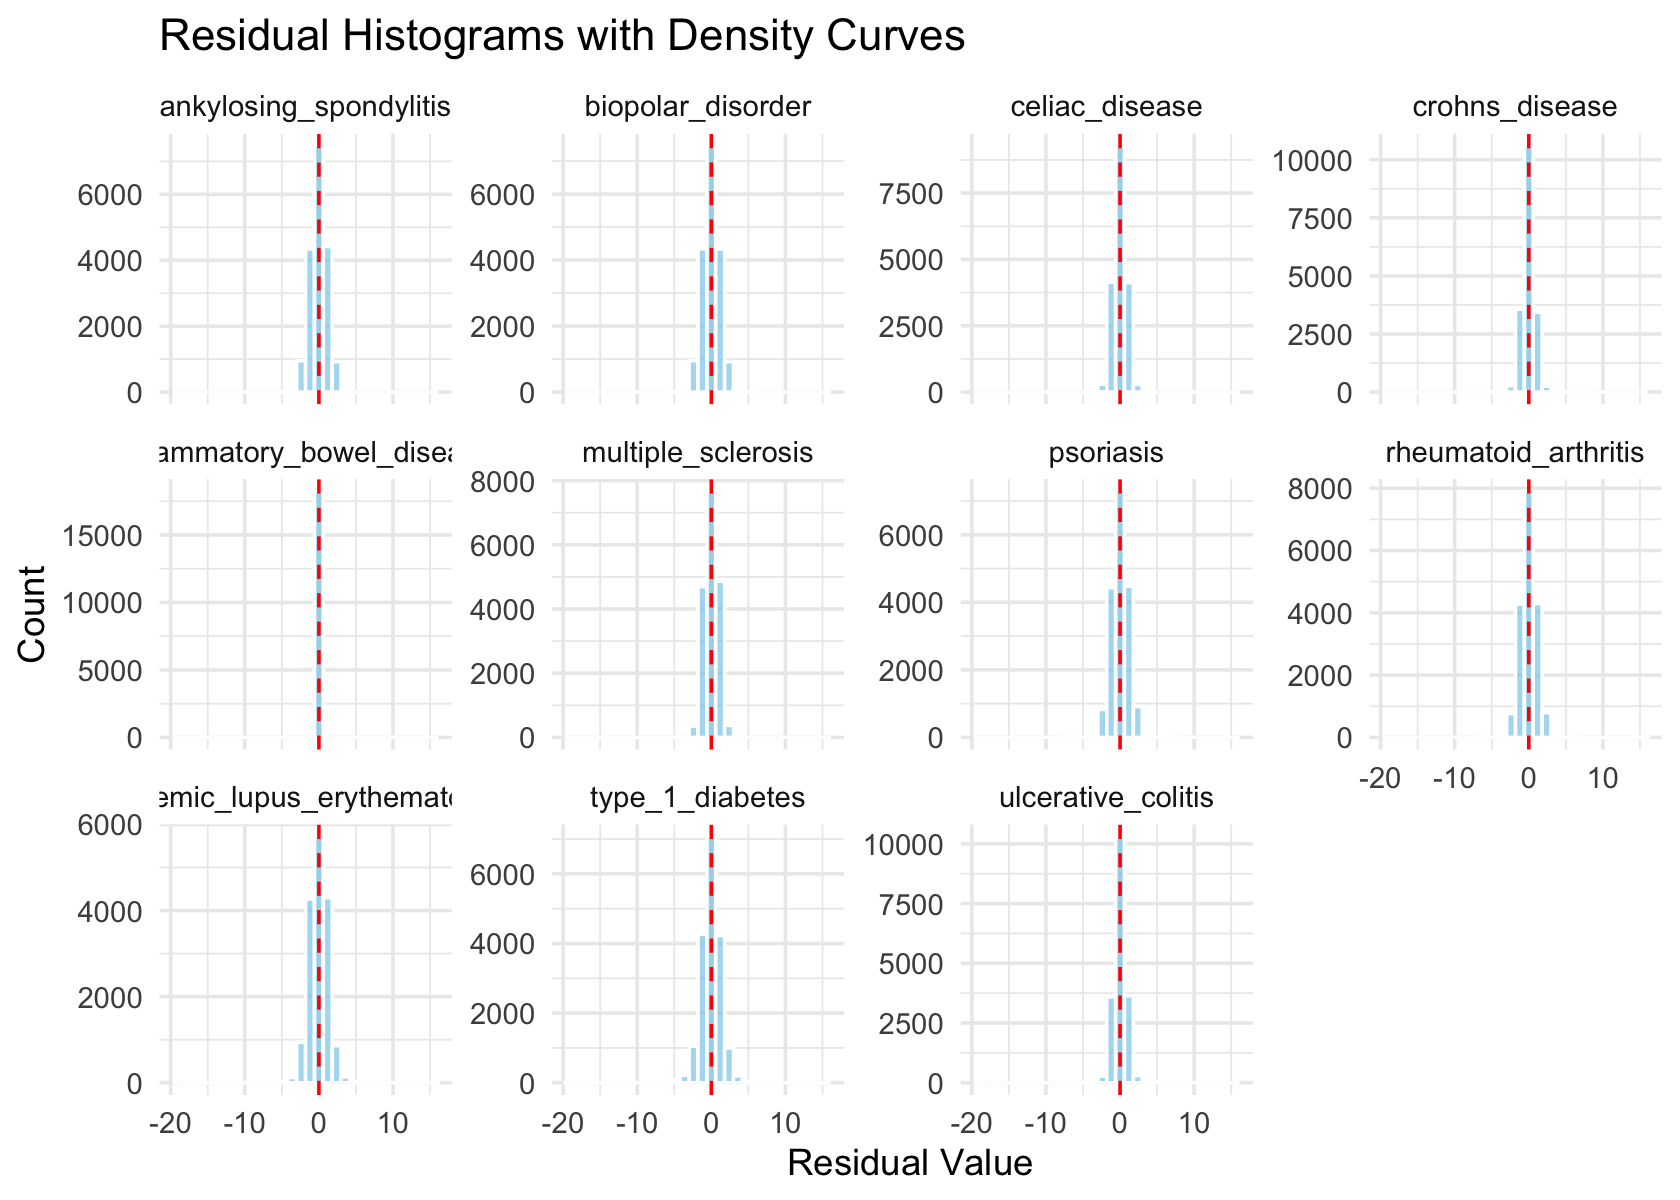
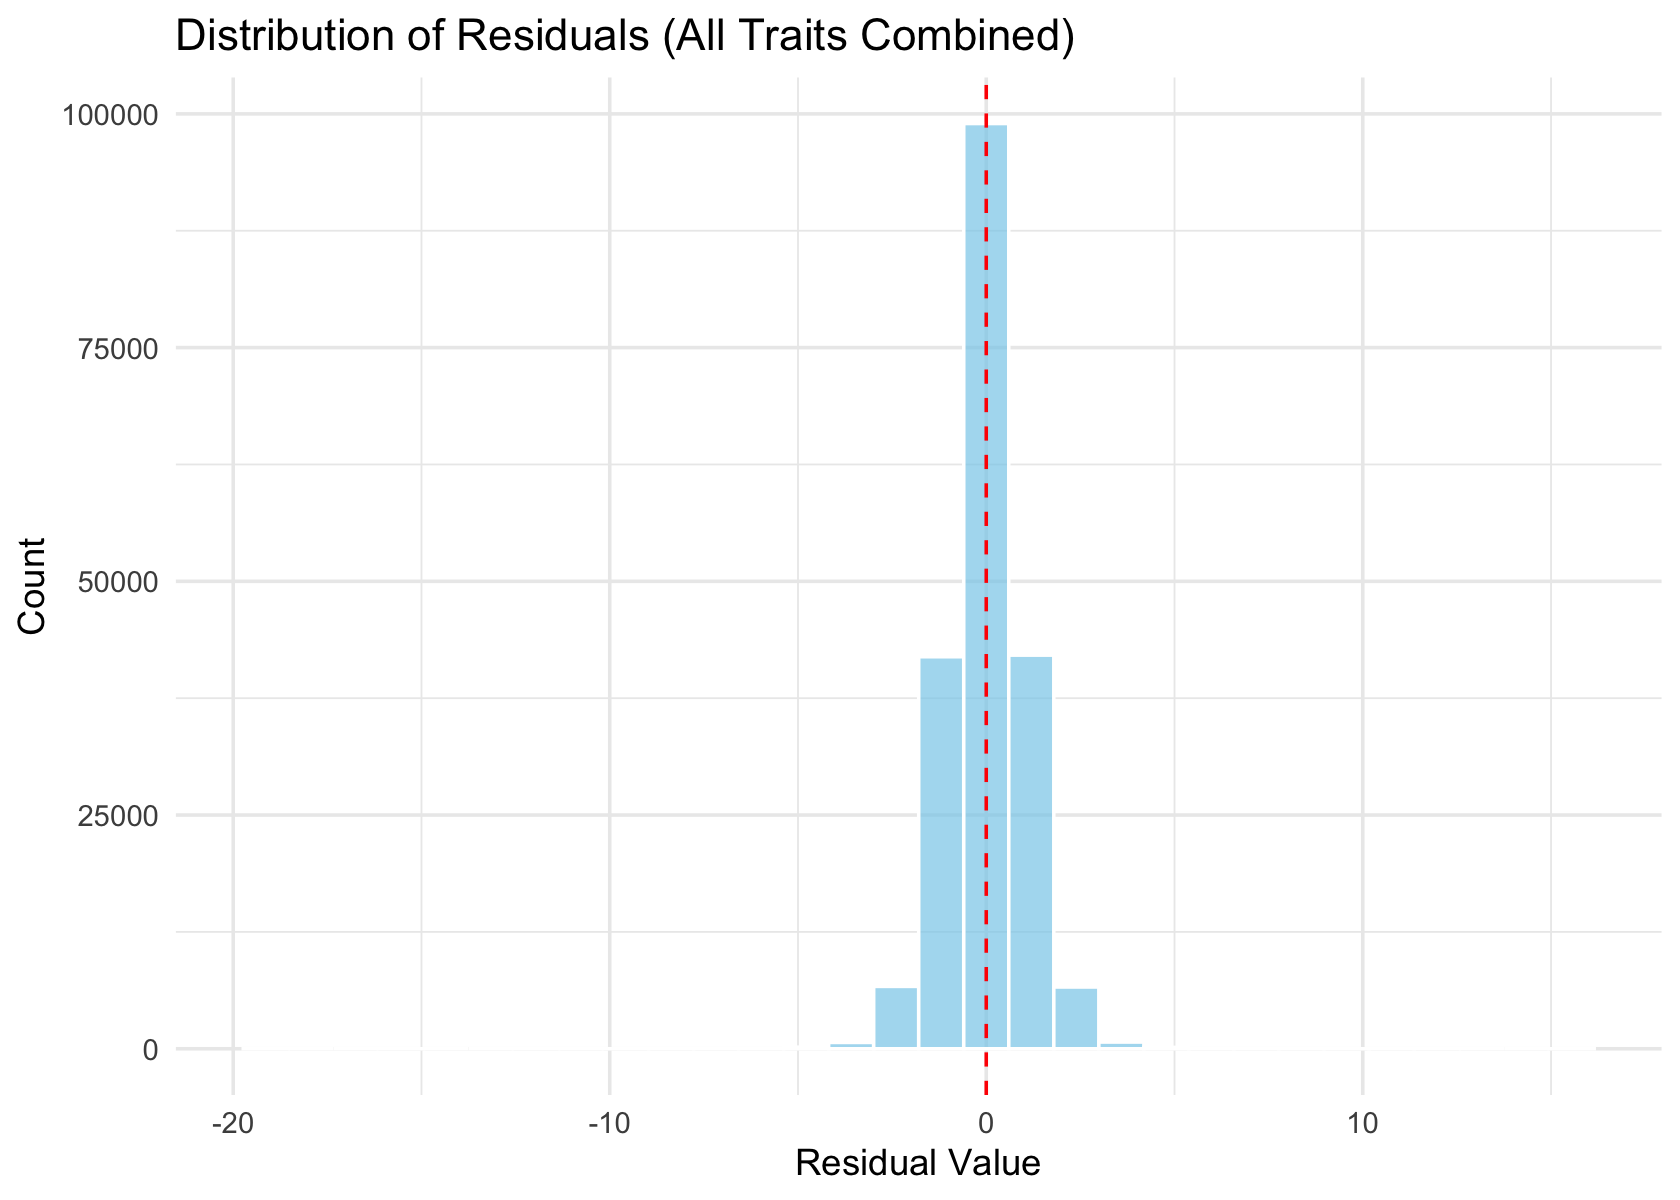
Build site.

diff --git a/docs/autoimmune_factors_z.html b/docs/autoimmune_factors_z.html
@@ -432,15 +432,15 @@ project makes it easier to run your code on other machines.</p>
 <div class="panel panel-default">
 <div class="panel-heading">
 <p class="panel-title">
-<a data-toggle="collapse" data-parent="#workflowr-checks" href="#strongRepositoryversionstrongahrefhttpsgithubcomzq2209ebmfimmunetree89c551561895a39e88421f5b331f1d623fc6c082targetblank89c5515a">
+<a data-toggle="collapse" data-parent="#workflowr-checks" href="#strongRepositoryversionstrongahrefhttpsgithubcomzq2209ebmfimmunetree8c7519bec058e5a05f508b18f0bcfd1438e1d974targetblank8c7519ba">
 <span class="glyphicon glyphicon-ok text-success"
 aria-hidden="true"></span> <strong>Repository version:</strong>
-<a href="https://github.com/zq2209/ebmf_immune/tree/89c551561895a39e88421f5b331f1d623fc6c082" target="_blank">89c5515</a>
+<a href="https://github.com/zq2209/ebmf_immune/tree/8c7519bec058e5a05f508b18f0bcfd1438e1d974" target="_blank">8c7519b</a>
 </a>
 </p>
 </div>
 <div
[2 lines of base64/hex data omitted]
 class="panel-collapse collapse">
 <div class="panel-body">
 <p>
@@ -450,7 +450,7 @@ reproducibility.
 </p>
 <p>
 The results in this page were generated with repository version
-<a href="https://github.com/zq2209/ebmf_immune/tree/89c551561895a39e88421f5b331f1d623fc6c082" target="_blank">89c5515</a>.
+<a href="https://github.com/zq2209/ebmf_immune/tree/8c7519bec058e5a05f508b18f0bcfd1438e1d974" target="_blank">8c7519b</a>.
 See the <em>Past versions</em> tab to see a history of the changes made
 to the R Markdown and HTML files.
 </p>
@@ -511,6 +511,40 @@ Message
 </tr>
 </thead>
 <tbody>
+<tr>
+<td>
+Rmd
+</td>
+<td>
+<a href="https://github.com/zq2209/ebmf_immune/blob/8c7519bec058e5a05f508b18f0bcfd1438e1d974/analysis/autoimmune_factors_z.Rmd" target="_blank">8c7519b</a>
+</td>
+<td>
+zq2209
+</td>
+<td>
+2025-06-09
+</td>
+<td>
+update
+</td>
+</tr>
+<tr>
+<td>
+html
+</td>
+<td>
+<a href="https://rawcdn.githack.com/zq2209/ebmf_immune/ac8f46fdaf2c944b0d7fff480ca671b5863f98c9/docs/autoimmune_factors_z.html" target="_blank">ac8f46f</a>
+</td>
+<td>
+zq2209
+</td>
+<td>
+2025-06-09
+</td>
+<td>
+Build site.
+</td>
+</tr>
 <tr>
 <td>
 html
@@ -785,26 +819,16 @@ snmf_res_long &lt;- as.data.frame(snmf_res) %&gt;%
   pivot_longer(-variant, names_to = &quot;trait&quot;, values_to = &quot;residual&quot;)
 
 ggplot(snmf_res_long, aes(x = residual)) +
-  # Histogram (counts)
   geom_histogram(
-    aes(y = after_stat(count)),  # Just show raw counts
-    bins = 30, 
-    fill = &quot;skyblue&quot;, 
+    bins = 30,
+    fill = &quot;skyblue&quot;,
     color = &quot;white&quot;,
     alpha = 0.7
   ) +
-  # # Density line (scaled to match histogram)
-  # geom_density(
-  #   aes(y = after_stat(count)),  # Scale density to counts
-  #   color = &quot;darkblue&quot;, 
-  #   linewidth = 1,
-  #   adjust = 1.5
-  # ) +
   geom_vline(xintercept = 0, linetype = &quot;dashed&quot;, color = &quot;red&quot;) +
-  facet_wrap(~trait, scales = &quot;free_y&quot;) +
   labs(
-    title = &quot;Residual Histograms with Density Curves&quot;,
-    x = &quot;Residual Value&quot;, 
+    title = &quot;Distribution of Residuals (All Traits Combined)&quot;,
+    x = &quot;Residual Value&quot;,
     y = &quot;Count&quot;
   ) +
   theme_minimal()
@@ -848,6 +872,43 @@ zq2209
 </table>
 </div>
 </div>
+<pre class="r"><code>
+# Create QQ-plot
+qqnorm(snmf_res_long$residual,
+       main = &quot;QQ-Plot of Residuals (All Traits)&quot;,
+       col = &quot;skyblue&quot;,
+       pch = 17,
+       cex = 0.8)
+qqline(snmf_res_long$residual, col = &quot;red&quot;, lwd = 1.5)</code></pre>
+<p><img src="figure/autoimmune_factors_z.Rmd/unnamed-chunk-1-2.png" width="840" style="display: block; margin: auto;" /></p>
+<pre class="r"><code>
+ggplot(snmf_res_long, aes(x = residual)) +
+  # Histogram (counts)
+  geom_histogram(
+    aes(y = after_stat(count)),  # Just show raw counts
+    bins = 30, 
+    fill = &quot;skyblue&quot;, 
+    color = &quot;white&quot;,
+    alpha = 0.7
+  ) +
+  # # Density line (scaled to match histogram)
+  # geom_density(
+  #   aes(y = after_stat(count)),  # Scale density to counts
+  #   color = &quot;darkblue&quot;, 
+  #   linewidth = 1,
+  #   adjust = 1.5
+  # ) +
+  geom_vline(xintercept = 0, linetype = &quot;dashed&quot;, color = &quot;red&quot;) +
+  facet_wrap(~trait, scales = &quot;free_y&quot;) +
+  labs(
+    title = &quot;Residual Histograms with Density Curves&quot;,
+    x = &quot;Residual Value&quot;, 
+    y = &quot;Count&quot;
+  ) +
+  theme_minimal()
+# Warning: Removed 2369 rows containing non-finite outside the scale range
+# (`stat_bin()`).</code></pre>
+<p><img src="figure/autoimmune_factors_z.Rmd/unnamed-chunk-1-3.png" width="840" style="display: block; margin: auto;" /></p>
 <pre class="r"><code># Set up the plotting grid (3 rows x 4 columns)
 par(mfrow = c(3, 4))  # mar adjusts margins (bottom, left, top, right)
 
@@ -933,26 +994,16 @@ mf_res_long &lt;- as.data.frame(mf_res) %&gt;%
   pivot_longer(-variant, names_to = &quot;trait&quot;, values_to = &quot;residual&quot;)
 
 ggplot(mf_res_long, aes(x = residual)) +
-  # Histogram (counts)
   geom_histogram(
-    aes(y = after_stat(count)),  # Just show raw counts
-    bins = 30, 
-    fill = &quot;skyblue&quot;, 
+    bins = 30,
+    fill = &quot;skyblue&quot;,
     color = &quot;white&quot;,
     alpha = 0.7
   ) +
-  # # Density line (scaled to match histogram)
-  # geom_density(
-  #   aes(y = after_stat(count)),  # Scale density to counts
-  #   color = &quot;darkblue&quot;, 
-  #   linewidth = 1,
-  #   adjust = 1.5
-  # ) +
   geom_vline(xintercept = 0, linetype = &quot;dashed&quot;, color = &quot;red&quot;) +
-  facet_wrap(~trait, scales = &quot;free_y&quot;) +
   labs(
-    title = &quot;Residual Histograms with Density Curves&quot;,
-    x = &quot;Residual Value&quot;, 
+    title = &quot;Distribution of Residuals (All Traits Combined)&quot;,
+    x = &quot;Residual Value&quot;,
     y = &quot;Count&quot;
   ) +
   theme_minimal()
@@ -996,6 +1047,43 @@ zq2209
 </table>
 </div>
 </div>
+<pre class="r"><code>
+# Create QQ-plot
+qqnorm(mf_res_long$residual,
+       main = &quot;QQ-Plot of Residuals (All Traits)&quot;,
+       col = &quot;skyblue&quot;,
+       pch = 17,
+       cex = 0.8)
+qqline(mf_res_long$residual, col = &quot;red&quot;, lwd = 1.5)</code></pre>
+<p><img src="figure/autoimmune_factors_z.Rmd/unnamed-chunk-3-2.png" width="840" style="display: block; margin: auto;" /></p>
+<pre class="r"><code>
+ggplot(mf_res_long, aes(x = residual)) +
+  # Histogram (counts)
+  geom_histogram(
+    aes(y = after_stat(count)),  # Just show raw counts
+    bins = 30, 
+    fill = &quot;skyblue&quot;, 
+    color = &quot;white&quot;,
+    alpha = 0.7
+  ) +
+  # # Density line (scaled to match histogram)
+  # geom_density(
+  #   aes(y = after_stat(count)),  # Scale density to counts
+  #   color = &quot;darkblue&quot;, 
+  #   linewidth = 1,
+  #   adjust = 1.5
+  # ) +
+  geom_vline(xintercept = 0, linetype = &quot;dashed&quot;, color = &quot;red&quot;) +
+  facet_wrap(~trait, scales = &quot;free_y&quot;) +
+  labs(
+    title = &quot;Residual Histograms with Density Curves&quot;,
+    x = &quot;Residual Value&quot;, 
+    y = &quot;Count&quot;
+  ) +
+  theme_minimal()
+# Warning: Removed 2369 rows containing non-finite outside the scale range
+# (`stat_bin()`).</code></pre>
+<p><img src="figure/autoimmune_factors_z.Rmd/unnamed-chunk-3-3.png" width="840" style="display: block; margin: auto;" /></p>
 <pre class="r"><code># Set up the plotting grid (3 rows x 4 columns)
 par(mfrow = c(3, 4))  # mar adjusts margins (bottom, left, top, right)
 
